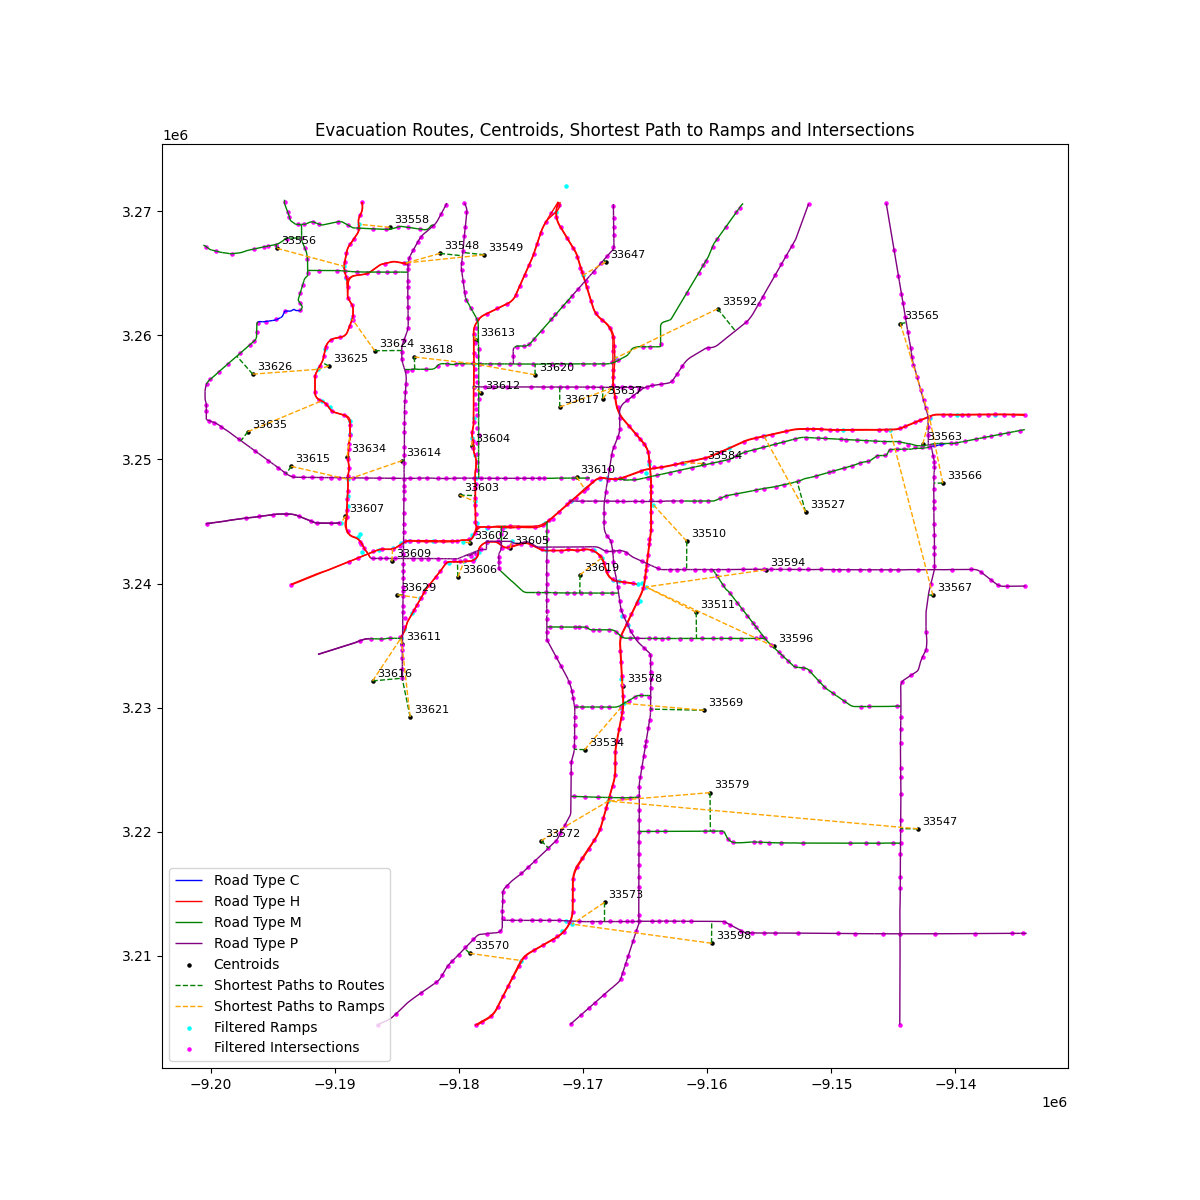
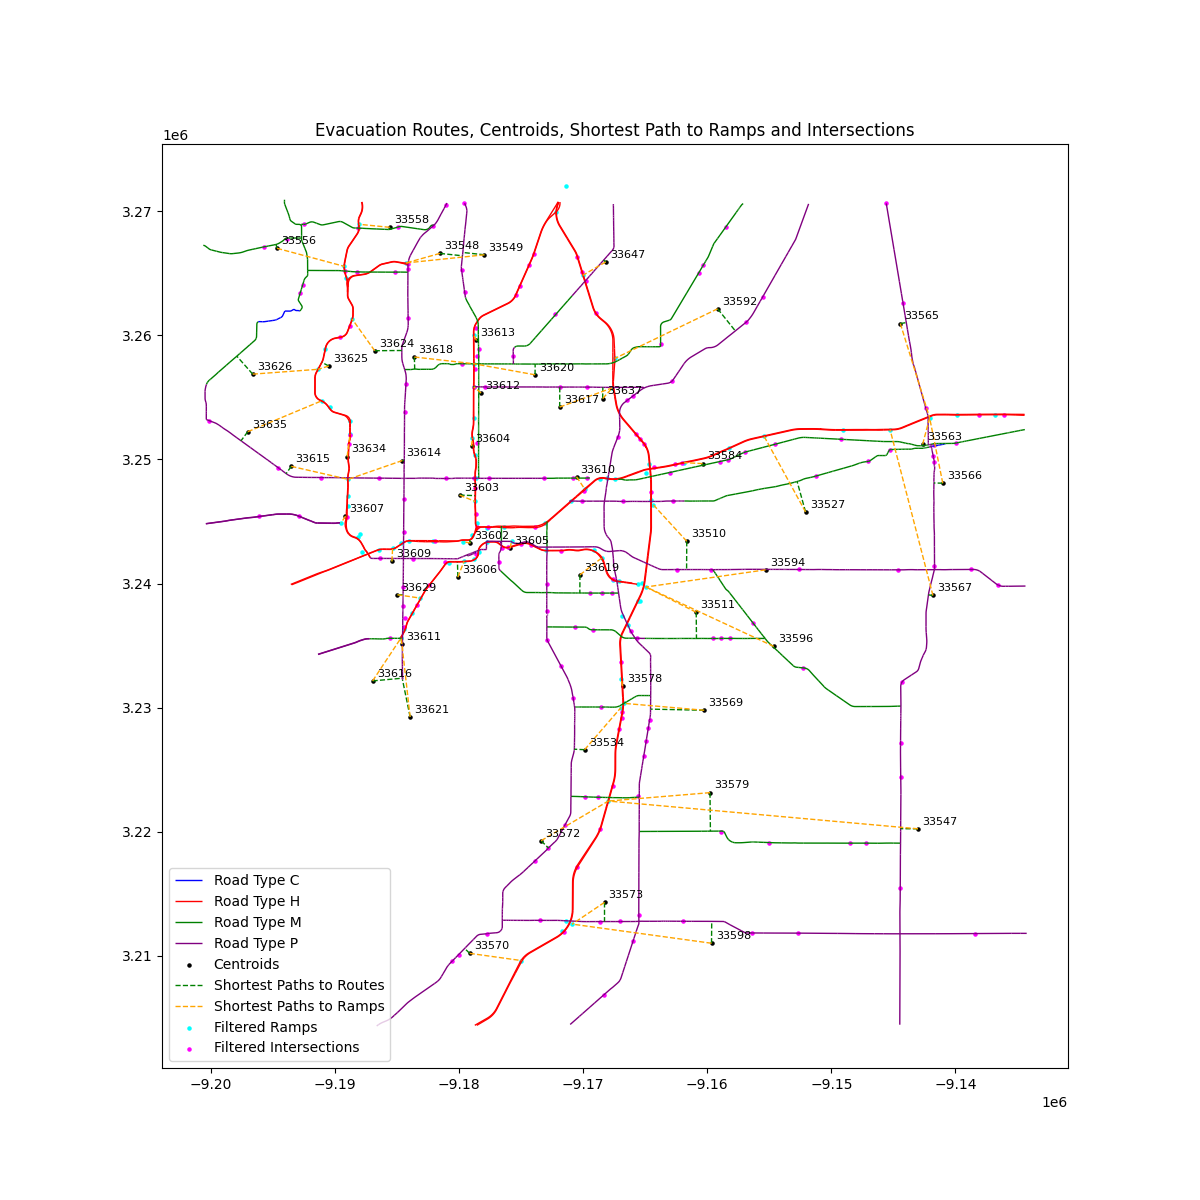
added the ability to filter

Changed region(s): [[0.4933, 0.4317, 0.5242, 0.4625]]

diff --git a/source/main.py b/source/main.py
@@ -64,6 +64,10 @@ def main():
     logger.info("Merging close intersections within 500 meters")
     merged_intersection_nodes_gdf = pgdf.merge_close_nodes(filtered_intersections_gdf, distance=500)
 
+    # Trim intersections to include only every 5th node
+    logger.info("Trimming intersections to include every 5th node")
+    trimmed_intersections_gdf = pgdf.trim_intersections(merged_intersection_nodes_gdf, step=5)
+
     # Calculate minimum distances from centroids to evacuation routes
     logger.info("Calculating minimum distances from centroids to evacuation routes")
     route_min_distances, route_lines = pgdf.calculate_min_distances_to_routes(centroids_gdf, routes_gdf)
@@ -87,8 +91,8 @@ def main():
 
     # Visualize the evacuation routes, centroids, and filtered ramps
     logger.info("Visualizing the evacuation routes, centroids, and filtered ramps")
-    # visualize(centroids_gdf, routes_gdf, route_lines_gdf, ramp_lines_gdf, merged_ramp_nodes_gdf, merged_intersection_nodes_gdf, route_nodes_gdf, output_image_path)
-    visualize(centroids_gdf, routes_gdf, route_lines_gdf, ramp_lines_gdf, merged_ramp_nodes_gdf, merged_intersection_nodes_gdf, output_image_path)
+    # visualize(centroids_gdf, routes_gdf, route_lines_gdf, ramp_lines_gdf, merged_ramp_nodes_gdf, trimmed_intersections_gdf, route_nodes_gdf, output_image_path)
+    visualize(centroids_gdf, routes_gdf, route_lines_gdf, ramp_lines_gdf, merged_ramp_nodes_gdf, trimmed_intersections_gdf, output_image_path)
     logger.info(f"Visualization saved to {output_image_path}")
 
     # # Create a graph from the GeoDataFrames

diff --git a/source/process_geoDataFrames.py b/source/process_geoDataFrames.py
@@ -57,21 +57,5 @@ def create_nodes_along_routes(routes_gdf, interval=500):
             nodes.append({'geometry': point})
     return gpd.GeoDataFrame(nodes, crs=routes_gdf.crs)
 
-# def create_intersection_nodes(routes_gdf):
-#     intersections = []
-#     for i, route1 in enumerate(routes_gdf.geometry):
-#         for j, route2 in enumerate(routes_gdf.geometry):
-#             if i >= j:
-#                 continue
-#             intersection = route1.intersection(route2)
-#             if not intersection.is_empty:
-#                 if intersection.geom_type == 'Point':
-#                     intersections.append({'geometry': intersection})
-#                 elif intersection.geom_type == 'MultiPoint':
-#                     for point in intersection.geoms:
-#                         intersections.append({'geometry': point})
-#                 elif intersection.geom_type == 'GeometryCollection':
-#                     for geom in intersection.geoms:
-#                         if geom.geom_type == 'Point':
-#                             intersections.append({'geometry': geom})
-#     return gpd.GeoDataFrame(intersections, crs=routes_gdf.crs)
+def trim_intersections(intersections_gdf, step=5):
+    return intersections_gdf.iloc[::step]
